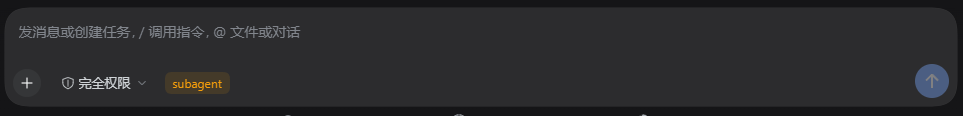
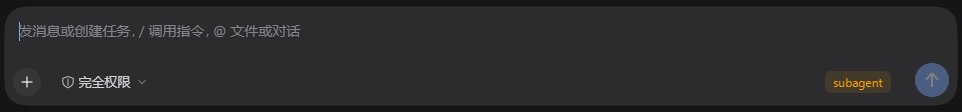
docs: make the Chinese README the package default
npm renders the root README.md, so the Chinese page now lives there and the English page moves to README.en.md. The language switcher uses absolute GitHub URLs, which survive the registry page. The screenshot shows the marker in its new right-hand position.

diff --git a/README.md b/README.md
@@ -1,64 +1,66 @@
 # dsh-subagent-marker
 
-**Marks the composer of a subagent session in DeepSeek Harness.**
+**给 DeepSeek Harness 子代理会话的输入框加标识。**
 
-A subagent session's composer looks exactly like a root session's. This plugin adds a `subagent` marker at the left end of the composer's tool row, so you can tell which one you are typing into.
+沟槽的 dsh UI 设计，一晚上好几次在查看 subagent 内容之后误输入 prompt 给 subagent，浪费数百 K token，一怒之下遂跑了这么个插件。
 
-[English](README.md) | [中文](README.zh.md)
+只加了个标签，其他什么都没干。大概不会影响其他插件。
 
-![The subagent marker in a subagent session's composer](https://raw.githubusercontent.com/wingoflan/dsh-subagent-marker/main/assets/screenshot.png)
+[English](https://github.com/wingoflan/dsh-subagent-marker/blob/main/README.en.md) | [中文](https://github.com/wingoflan/dsh-subagent-marker/blob/main/README.md)
 
-## What it does
+![子代理会话输入框右侧的 subagent 标识](https://raw.githubusercontent.com/wingoflan/dsh-subagent-marker/main/assets/screenshot.png)
 
-- Renders the marker only when the open session is a subagent. Root sessions get nothing, so the row keeps its original layout and spacing.
+## 功能
 
-One-shot subagents and subagents whose parent went offline get a read-only composer from DSH, which replaces the whole tool row. The marker does not appear there; those sessions cannot accept input anyway.
+- 只在当前会话是子代理时渲染标记。主会话不渲染任何东西，工具行保持原来的布局和间距。
 
-## Install
+一次性子代理和父会话离线的子代理，DSH 会用只读输入区替换整个工具行。标记在这两种会话里不出现，这两种会话本来也无法输入。
 
-Manually:
+## 安装
+
+手动安装：
 
 ```bash
 dsh plugin add dsh-subagent-marker
 ```
 
-From a local checkout:
+从本地目录安装：
 
 ```bash
 dsh plugin add link:/absolute/path/to/dsh-subagent-marker
 ```
 
-## Turning it off and on
+## 开关
 
-Installing applies the plugin's own `cordis.patch.yml`. To switch it off, add one override row to the profile's `cordis.patch.yml`:
+安装时会应用插件自带的 `cordis.patch.yml`。想关掉，往 profile 的 `cordis.patch.yml` 加一行覆盖：
 
 ```yaml
 - id: subagent-marker
   disabled: true
 ```
 
-The profile layer is applied after every bundle layer, and a patch without `insert` overrides the entry with that id — so this one row reaches the row the bundle inserted. Deleting it switches the marker back on.
+profile 层在所有 bundle 层之后应用，不带 `insert` 的补丁按 id 覆盖已有条目，所以这一行能改到 bundle 插入的那一行。删掉它就恢复显示。
 
-Do not repeat the `insert` block in the profile layer. Two entries with the same id both mount, and the marker would then register its slot entry twice.
+不要在 profile 层重复写 `insert` 段。同 id 的两个条目都会挂载，标记会注册两次。
 
-## Uninstall
+## 卸载
 
-Delete the override row from the profile's `cordis.patch.yml`, then:
+先删掉 profile `cordis.patch.yml` 里的覆盖行，再执行：
 
 ```bash
 dsh plugin remove dsh-subagent-marker
 ```
 
-## How it works
+## 实现
 
-The package has two halves. `index.js` is the Host half and exports an empty `apply()`. Everything visible lives in `client.js`, which the Host serves to the page because `package.json` declares `dsh.client` and exports `./client`.
+包分两半。`index.js` 是 Host 半部，只导出一个空的 `apply()`。看得见的东西全在 `client.js`：`package.json` 声明了 `dsh.client` 并导出 `./client`，Host 据此把它投递给页面。
 
-`client.js` registers one entry into the `conversation.input.left` slot — a list slot at the left end of the composer tool row, after the permission selector and the plan control. The component reads `subagent` from the session snapshot and returns `null` on a root session, so nothing is added to the DOM.
+`client.js` 往 `conversation.input.right` 槽注册一个条目。这个槽是 list 类型，位于输入框底部工具行右侧的控制区，在模型选择器旁边、停止和发送按钮之前。组件从会话快照取 `subagent`，主会话为 `null` 时返回 `null`，DOM 里不新增节点。
 
-## Development
+## 开发
 
-There is no build step. `exports["./client"]` points straight at `client.js`, so editing that file is editing what the browser receives. The first install needs a Host restart before the new package loads.
+没有构建步骤。`exports["./client"]` 直接指向 `client.js`，改这个文件就是改投递内容。首次安装后重启一次 Host 才会加载新包。
 
-## License
+## 许可证
 
 MIT

diff --git a/README.en.md b/README.en.md
@@ -1,0 +1,64 @@
+# dsh-subagent-marker
+
+**Marks the composer of a subagent session in DeepSeek Harness.**
+
+A subagent session's composer looks exactly like a root session's. This plugin adds a `subagent` marker at the right end of the composer's tool row, just before the submit button, so you can tell which one you are typing into.
+
+[English](https://github.com/wingoflan/dsh-subagent-marker/blob/main/README.en.md) | [中文](https://github.com/wingoflan/dsh-subagent-marker/blob/main/README.md)
+
+![The subagent marker at the right end of a subagent session's composer](https://raw.githubusercontent.com/wingoflan/dsh-subagent-marker/main/assets/screenshot.png)
+
+## What it does
+
+- Renders the marker only when the open session is a subagent. Root sessions get nothing, so the row keeps its original layout and spacing.
+
+One-shot subagents and subagents whose parent went offline get a read-only composer from DSH, which replaces the whole tool row. The marker does not appear there; those sessions cannot accept input anyway.
+
+## Install
+
+Manually:
+
+```bash
+dsh plugin add dsh-subagent-marker
+```
+
+From a local checkout:
+
+```bash
+dsh plugin add link:/absolute/path/to/dsh-subagent-marker
+```
+
+## Turning it off and on
+
+Installing applies the plugin's own `cordis.patch.yml`. To switch it off, add one override row to the profile's `cordis.patch.yml`:
+
+```yaml
+- id: subagent-marker
+  disabled: true
+```
+
+The profile layer is applied after every bundle layer, and a patch without `insert` overrides the entry with that id — so this one row reaches the row the bundle inserted. Deleting it switches the marker back on.
+
+Do not repeat the `insert` block in the profile layer. Two entries with the same id both mount, and the marker would then register its slot entry twice.
+
+## Uninstall
+
+Delete the override row from the profile's `cordis.patch.yml`, then:
+
+```bash
+dsh plugin remove dsh-subagent-marker
+```
+
+## How it works
+
+The package has two halves. `index.js` is the Host half and exports an empty `apply()`. Everything visible lives in `client.js`, which the Host serves to the page because `package.json` declares `dsh.client` and exports `./client`.
+
+`client.js` registers one entry into the `conversation.input.right` slot — a list slot in the right control cluster of the composer tool row, next to the model selector and before the stop and submit buttons. The component reads `subagent` from the session snapshot and returns `null` on a root session, so nothing is added to the DOM.
+
+## Development
+
+There is no build step. `exports["./client"]` points straight at `client.js`, so editing that file is editing what the browser receives. The first install needs a Host restart before the new package loads.
+
+## License
+
+MIT
